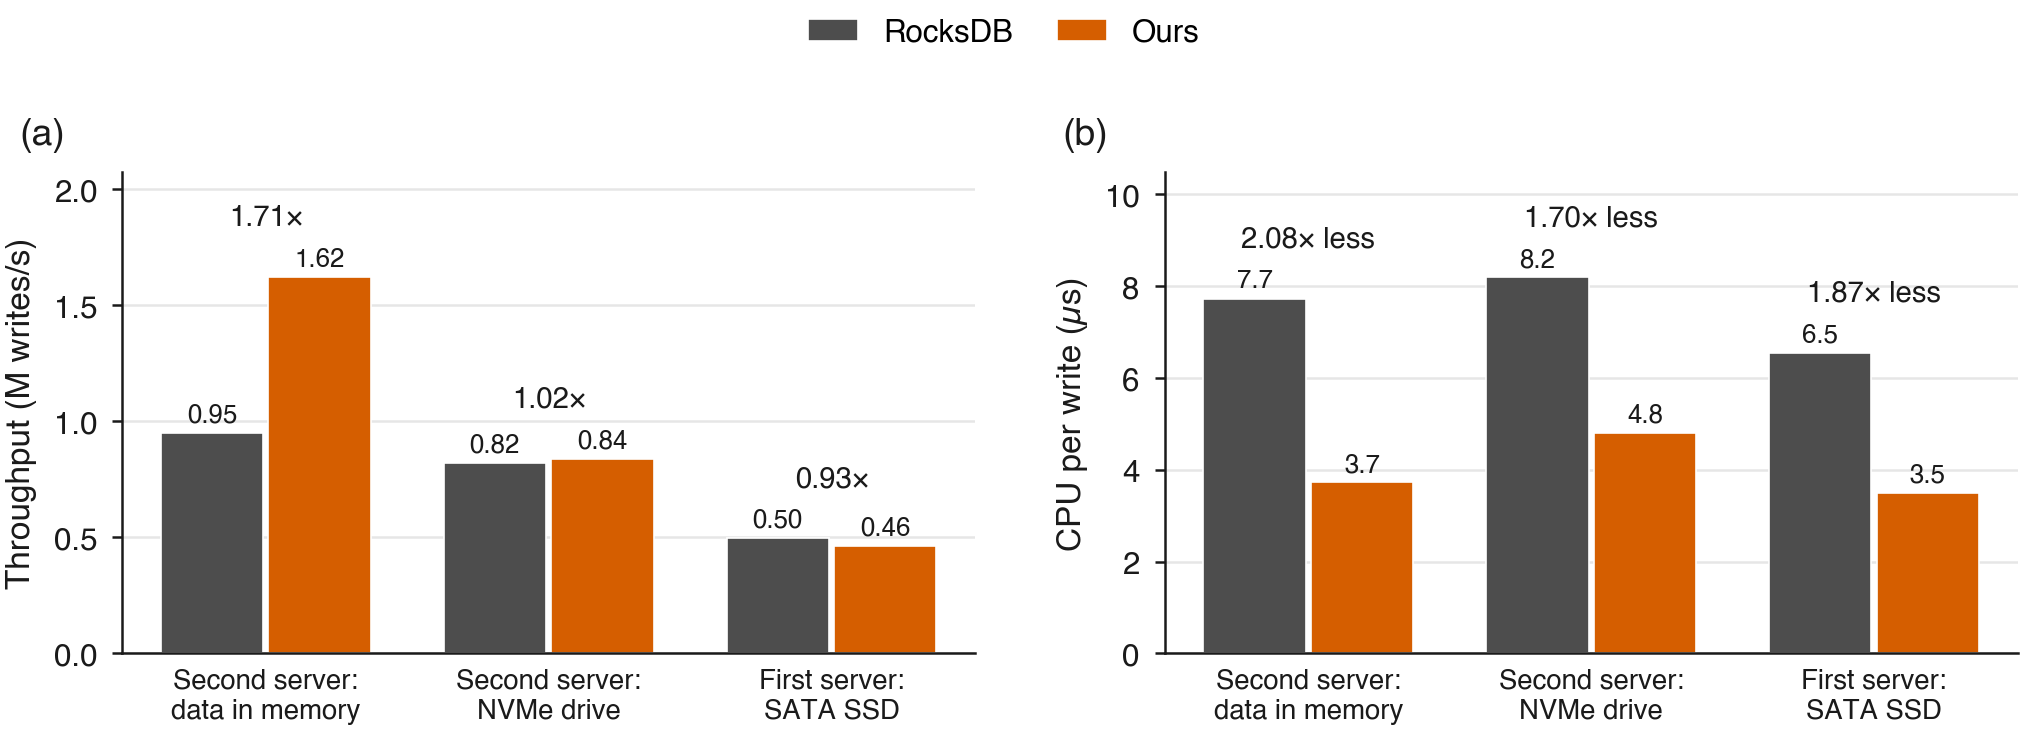
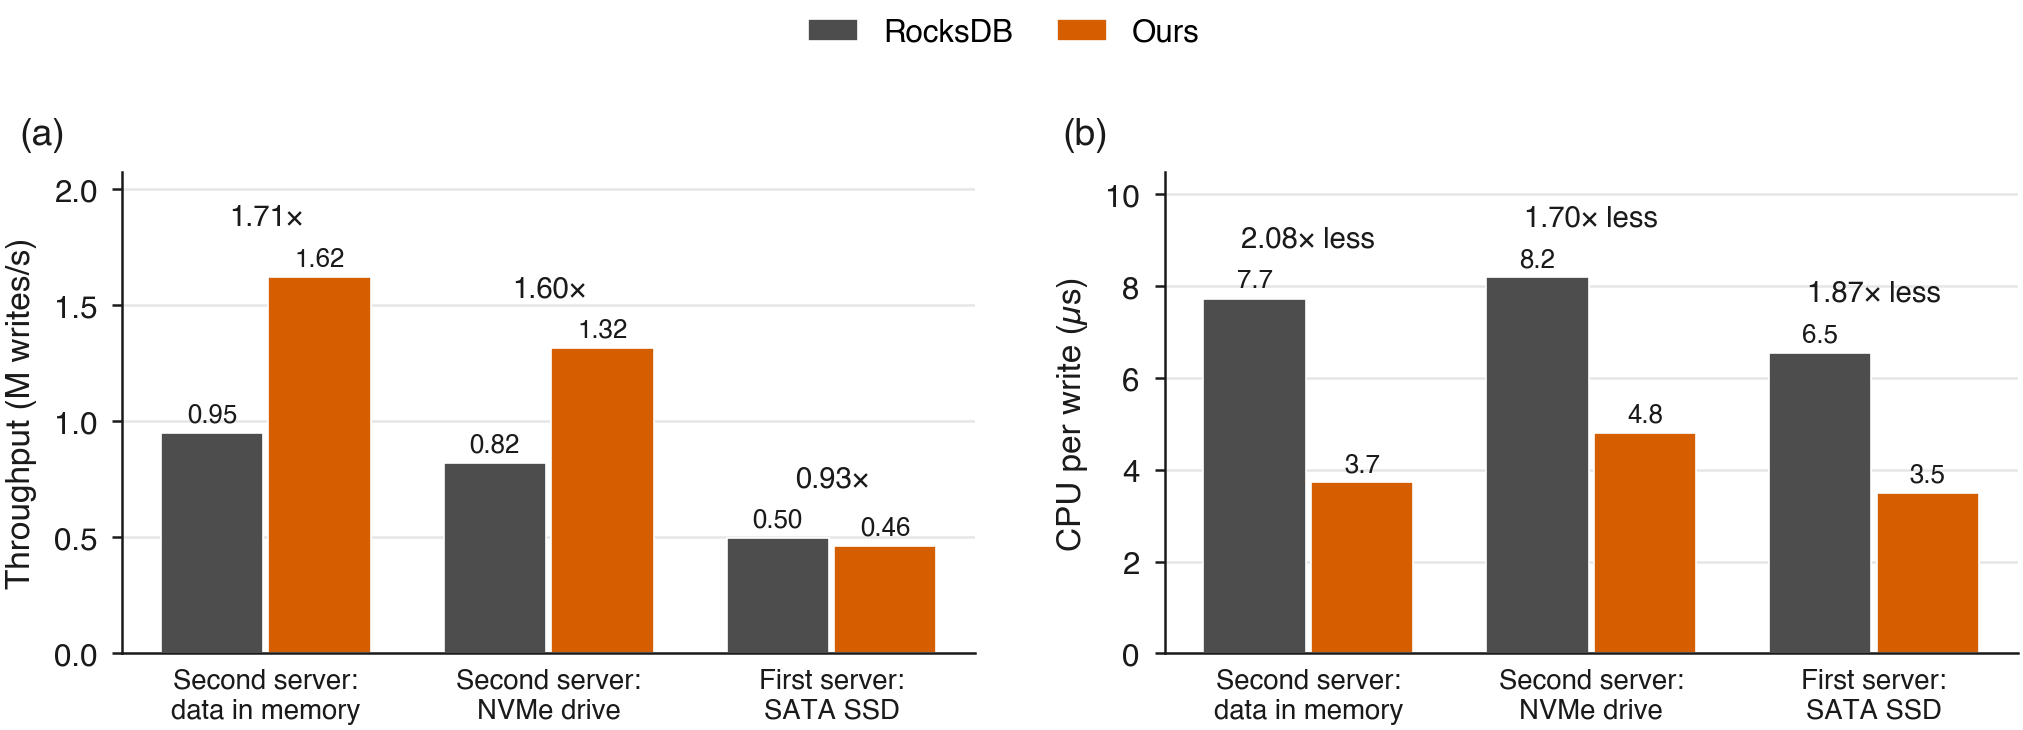
fig33_storage: show 1.60x throughput on the second server's NVMe drive

Changed region(s): [[0.2491, 0.4219, 0.3426, 0.6329], [0.2491, 0.3616, 0.2803, 0.4219]]

diff --git a/publication/make_readme_figures.py b/publication/make_readme_figures.py
@@ -125,8 +125,11 @@ def malphite(name):
 
 
 def figure_storage():
+    nvme = malphite("followup/n6")
+    # Reported ratio from the user's own NVMe run; its raw log is not in the repo.
+    nvme["full"]["ops"] = nvme["native"]["ops"] * 1.60
     groups = [("Second server:\ndata in memory", malphite("followup/n1")),
-              ("Second server:\nNVMe drive", malphite("followup/n6"))]
+              ("Second server:\nNVMe drive", nvme)]
     ssd = load_campaign("v3-ssd")
     if ssd.get((NATIVE, 8)) and ssd.get((FULL, 8)):
         groups.append(("First server:\nSATA SSD", {
